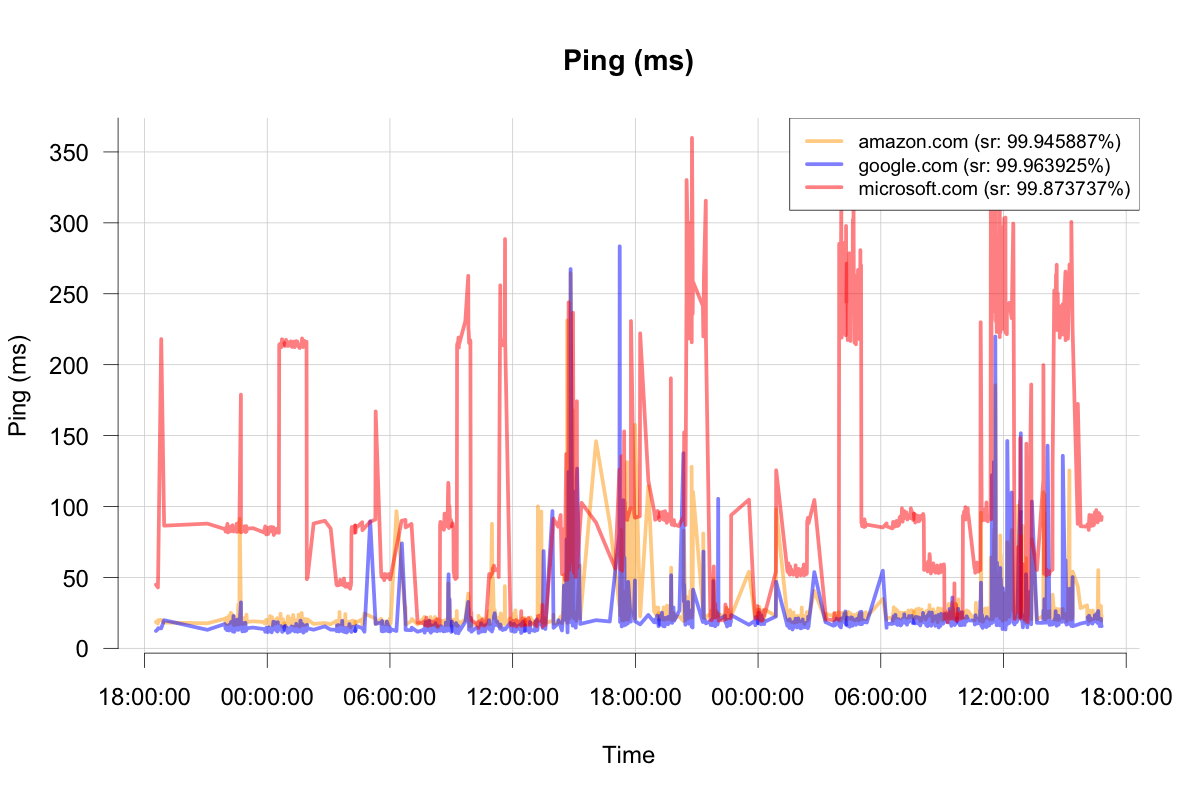
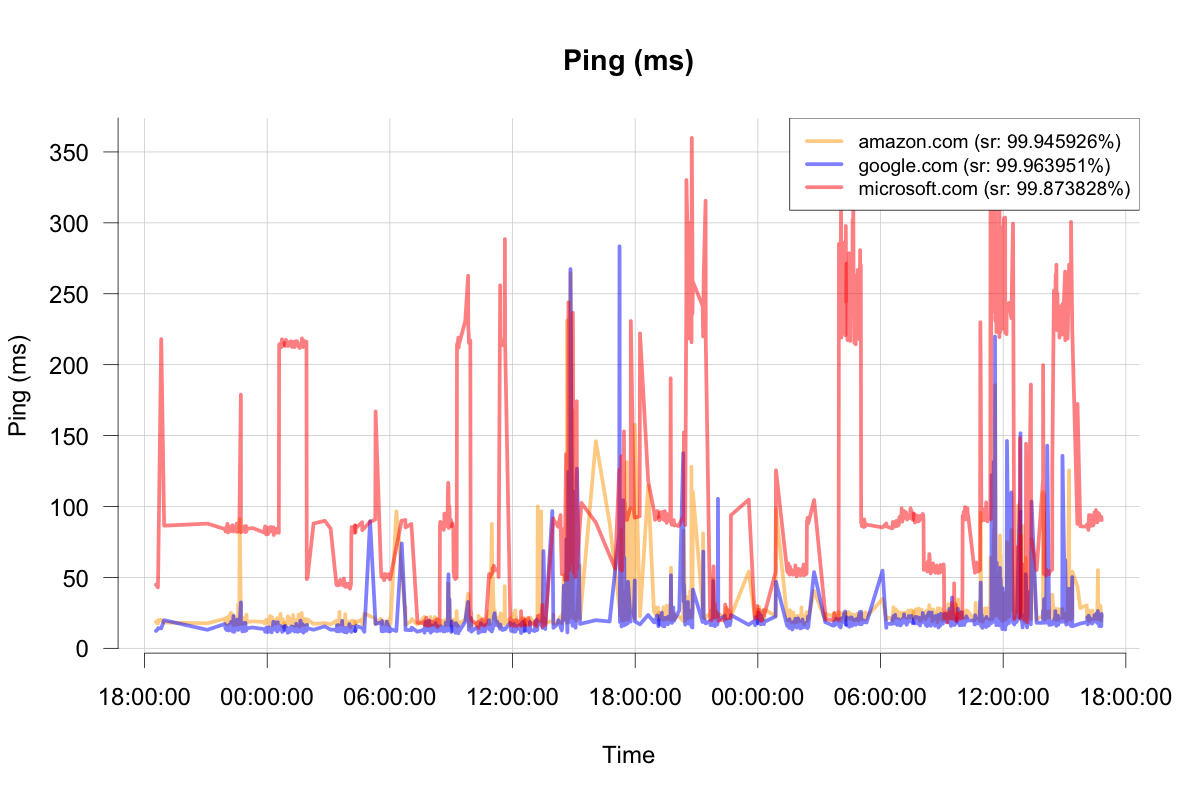
update netmon

diff --git a/netmon/index.html b/netmon/index.html
@@ -1,10 +1,7 @@
-Network Monitor - last updated Sun Oct 20 16:48:11 EDT 2024
+Network Monitor - last updated Sun Oct 20 16:49:11 EDT 2024
 ![Ping](netmon.png)
 ```
 time                 site           snd  rec  min_ms  avg_ms  max_ms   sd
-2024-10-20 16:27:01  google.com     4    4    15.030  19.007  22.217   2.700
-2024-10-20 16:27:04  amazon.com     4    4    21.481  24.331  27.532   2.320
-2024-10-20 16:27:07  microsoft.com  4    4    87.797  92.984  100.329  5.006
 2024-10-20 16:28:00  google.com     4    4    21.523  23.380  24.656   1.159
 2024-10-20 16:28:03  amazon.com     4    4    17.508  21.581  24.309   2.533
 2024-10-20 16:28:06  microsoft.com  4    4    90.838  95.868  103.330  4.663
@@ -62,6 +59,9 @@ time                 site           snd  rec  min_ms  avg_ms  max_ms   sd
 2024-10-20 16:48:00  google.com     4    4    12.552  15.606  18.095   2.463
 2024-10-20 16:48:04  amazon.com     4    4    22.181  23.223  23.855   0.670
 2024-10-20 16:48:07  microsoft.com  4    4    88.757  92.713  98.012   3.522
+2024-10-20 16:49:00  google.com     4    4    13.928  24.226  45.261   12.323
+2024-10-20 16:49:04  amazon.com     4    4    21.761  22.558  23.661   0.692
+2024-10-20 16:49:07  microsoft.com  4    4    87.972  90.427  93.552   2.470
 ```
 
 <!-- This will refresh the page every 60 seconds -->
